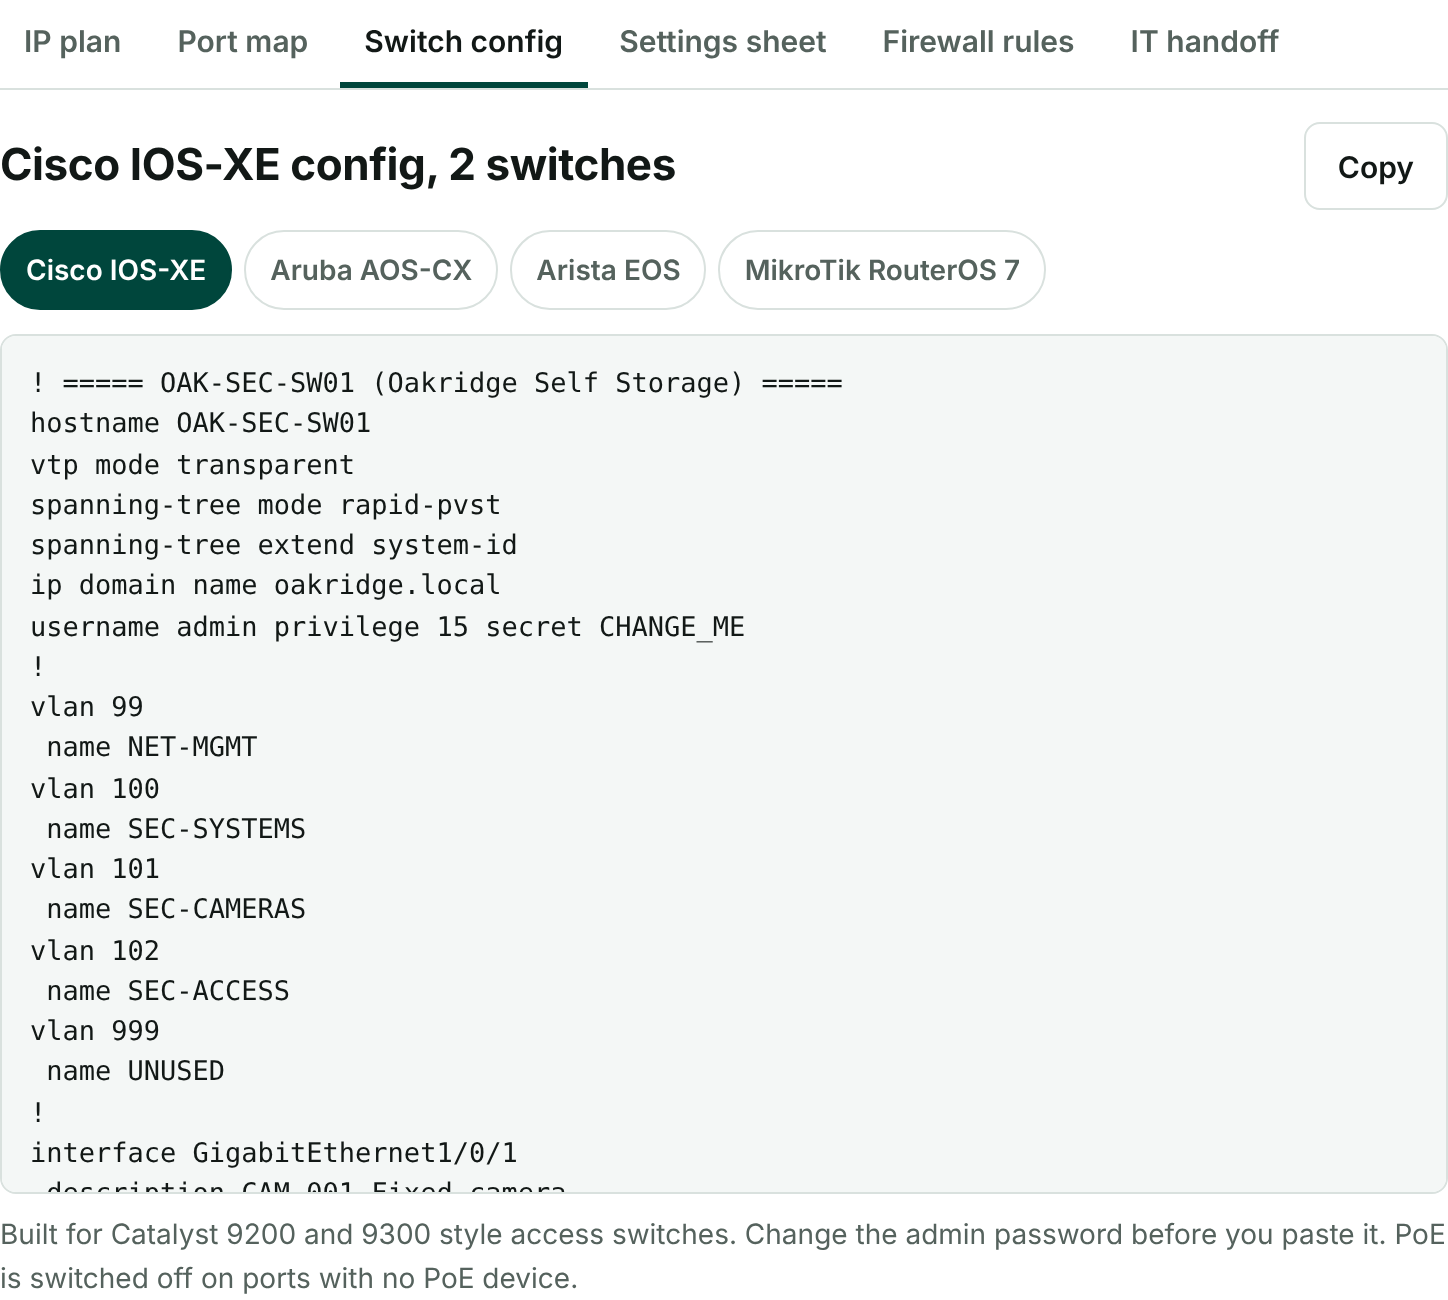
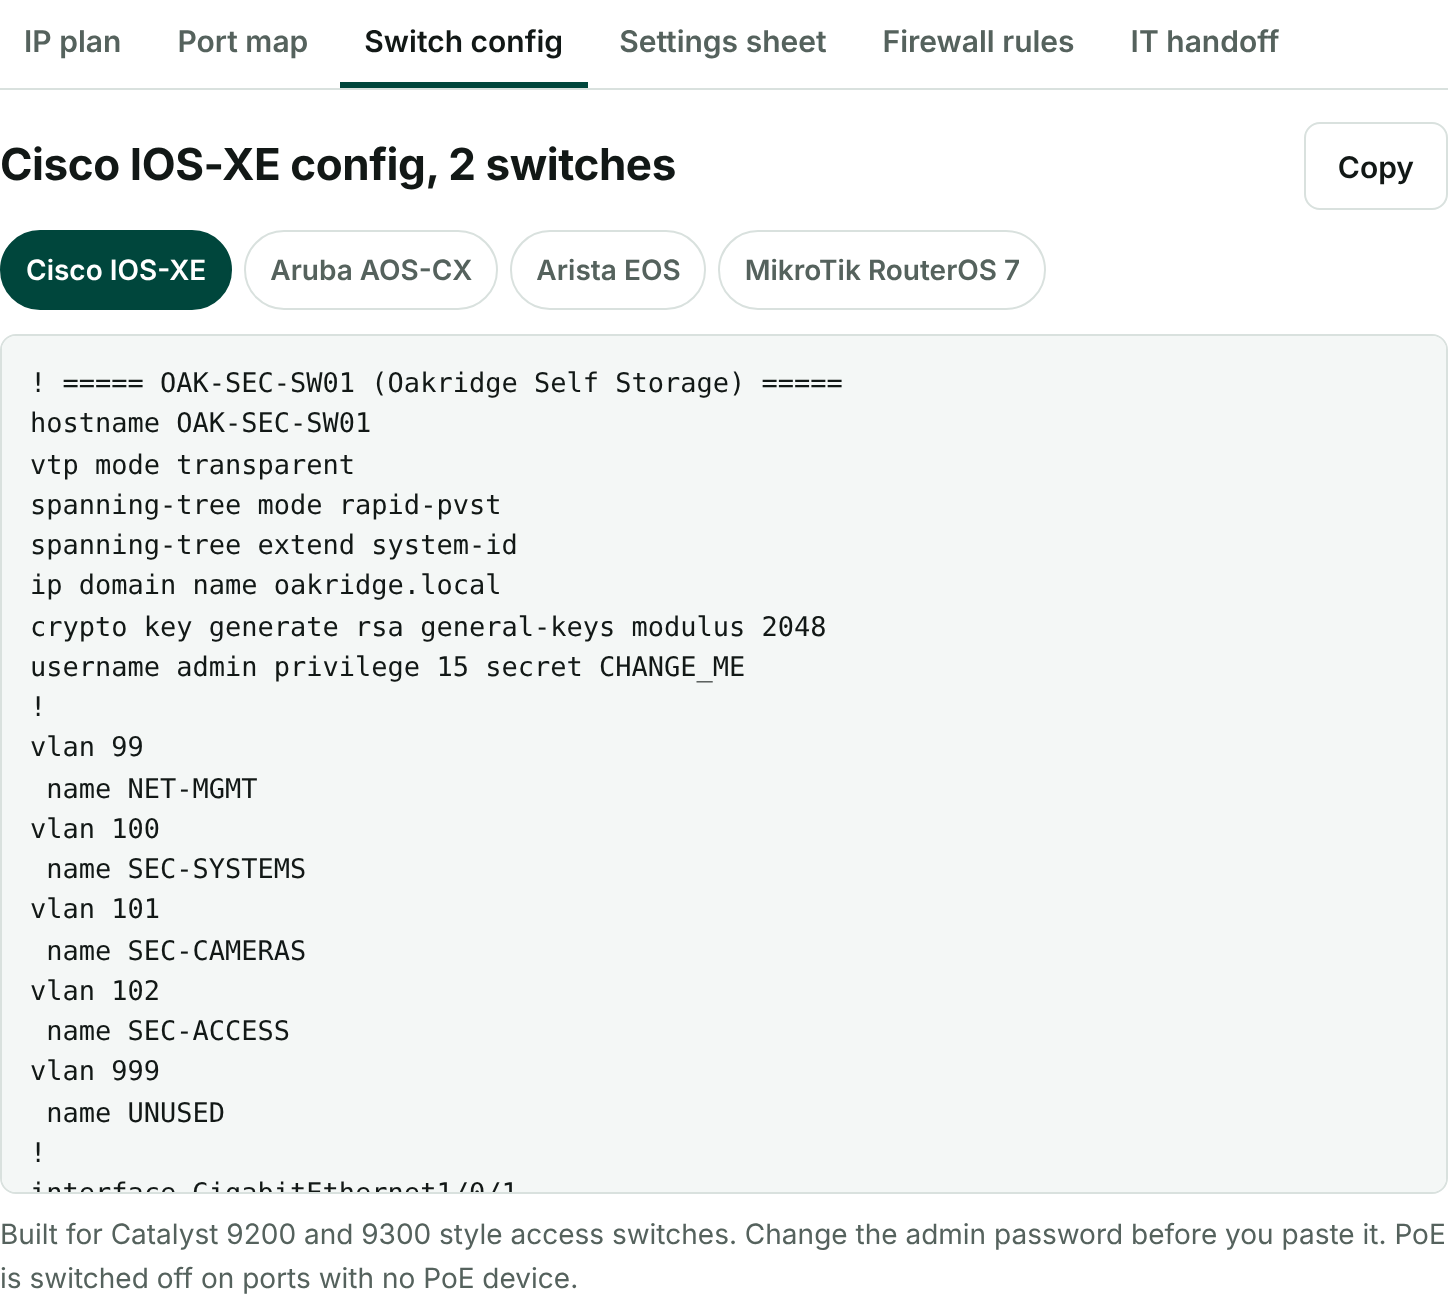
Fix config issues found in review
Cisco: generate the RSA key so SSH comes up. MikroTik: note that
the switch must start empty, shut unused ports after VLAN
filtering is on, and also disable www-ssl and api-ssl.

Claude-Session: https://claude.ai/code/session_01XUHCNFnj42HQaRWFkBUhrM

Changed region(s): [[0.0311, 0.4615, 0.5594, 0.9231]]

diff --git a/index.html b/index.html
@@ -201,7 +201,7 @@ const SAMPLE={s:{name:'Oakridge Self Storage',code:'OAK',num:12,gw:'254',ret:30,
  v:{mgmt:99,sys:100,cam:101,acs:102,park:999},
  d:[{t:'fixed',q:14,w:8,m:4},{t:'ir',q:6,w:13,m:4},{t:'ptz',q:2,w:30,m:6},{t:'door',q:4,w:15,m:.1},{t:'intercom',q:1,w:13,m:2},{t:'nvr',q:1,w:0,m:0},{t:'ws',q:1,w:0,m:0}]};
 const KEY='cnp.v1';
-const VEND={cisco:{n:'Cisco IOS-XE',up:p=>'TenGigabitEthernet1/1/1',note:'Built for Catalyst 9200 and 9300 style access switches.'},aruba:{n:'Aruba AOS-CX',up:p=>`1/1/${p.ports+1}`,note:'Built for Aruba CX 6000, 6100 and 6200 style access switches.'},arista:{n:'Arista EOS',up:p=>`Ethernet${p.ports+1}`,note:'Built for Arista 720XP style PoE access switches.'},mikrotik:{n:'MikroTik RouterOS 7',up:p=>'sfp-sfpplus1',note:'Built for CRS3xx and CRS5xx switches using bridge VLAN filtering with hardware offload. VLAN filtering is switched on last, so paste it from a console or a port you will not lose.'}};
+const VEND={cisco:{n:'Cisco IOS-XE',up:p=>'TenGigabitEthernet1/1/1',note:'Built for Catalyst 9200 and 9300 style access switches.'},aruba:{n:'Aruba AOS-CX',up:p=>`1/1/${p.ports+1}`,note:'Built for Aruba CX 6000, 6100 and 6200 style access switches.'},arista:{n:'Arista EOS',up:p=>`Ethernet${p.ports+1}`,note:'Built for Arista 720XP style PoE access switches.'},mikrotik:{n:'MikroTik RouterOS 7',up:p=>'sfp-sfpplus1',note:'Built for CRS3xx and CRS5xx switches using bridge VLAN filtering with hardware offload. Reset the switch to an empty config first, because the factory config already holds every port in its own bridge. VLAN filtering and the unused-port shutdown come last, so paste it from a console or a port you will not lose.'}};
 const clone=o=>JSON.parse(JSON.stringify(o));
 let S=clone(SAMPLE),tab='ip',R=null;
 const fix=x=>{if(!x.vn){x.vn=clone(SAMPLE.vn);if(x.w.ifp)x.vn.cisco.ifp=x.w.ifp;if(x.w.up)x.vn.cisco.up=x.w.up}if(!x.w.vend)x.w.vend='cisco';return x};
@@ -250,7 +250,7 @@ const vf=(p,k)=>({ifp:(S.vn[k]&&S.vn[k].ifp)||SAMPLE.vn[k].ifp,up:(S.vn[k]&&S.vn
 const used=p=>VL.map(y=>p.oct(y[0]));
 function cisco(p,x){
  const s=S.s,w=S.w,v=S.v,{ifp,up}=vf(p,'cisco'),L=[];
- L.push(`! ===== ${x.name} (${s.name}) =====`,`hostname ${x.name}`,'vtp mode transparent','spanning-tree mode rapid-pvst','spanning-tree extend system-id',`ip domain name ${s.dom||'example.local'}`,'username admin privilege 15 secret CHANGE_ME','!');
+ L.push(`! ===== ${x.name} (${s.name}) =====`,`hostname ${x.name}`,'vtp mode transparent','spanning-tree mode rapid-pvst','spanning-tree extend system-id',`ip domain name ${s.dom||'example.local'}`,'crypto key generate rsa general-keys modulus 2048','username admin privilege 15 secret CHANGE_ME','!');
  VL.forEach(y=>L.push(`vlan ${p.oct(y[0])}`,` name ${y[1]}`));
  L.push(`vlan ${p.oct('park')}`,' name UNUSED','!');
  const unused=[];
@@ -259,7 +259,7 @@ function cisco(p,x){
  rangeTxt(unused).forEach(([a,b])=>L.push(`interface range ${ifp}${a}${b>a?' - '+b:''}`,' description UNUSED',' switchport mode access',` switchport access vlan ${p.oct('park')}`,' shutdown','!'));
  for(let i=p.usable;i<p.ports;i++)L.push(`interface ${ifp}${i+1}`,' description RESERVED-UPLINK',' shutdown','!');
  L.push(`interface ${up}`,' description UPLINK-TO-CORE',' switchport mode trunk',` switchport trunk allowed vlan ${used(p).join(',')}`,' switchport nonegotiate',' no shutdown','!');
- L.push('interface Vlan1',' shutdown','!',`interface Vlan${p.oct('mgmt')}`,` description ${VL[0][1]}`,` ip address ${x.ip} 255.255.255.0`,' no shutdown','!',`ip default-gateway ${p.sub('mgmt')}.${p.gwh}`,`ntp server ${s.ntp||'CHANGE_ME'}`,`ip name-server ${s.ntp||'CHANGE_ME'}`,'no ip http server','no ip http secure-server','ip ssh version 2','! Generate SSH keys once: crypto key generate rsa modulus 2048','line vty 0 15',' login local',' transport input ssh','!','end');
+ L.push('interface Vlan1',' shutdown','!',`interface Vlan${p.oct('mgmt')}`,` description ${VL[0][1]}`,` ip address ${x.ip} 255.255.255.0`,' no shutdown','!',`ip default-gateway ${p.sub('mgmt')}.${p.gwh}`,`ntp server ${s.ntp||'CHANGE_ME'}`,`ip name-server ${s.ntp||'CHANGE_ME'}`,'no ip http server','no ip http secure-server','ip ssh version 2','line vty 0 15',' login local',' transport input ssh','!','end');
  return L.join('\n');
 }
 
@@ -291,7 +291,7 @@ function arista(p,x){
 }
 function mikrotik(p,x){
  const s=S.s,{ifp,up}=vf(p,'mikrotik'),L=[],unused=[],byV={},mg=p.oct('mgmt');
- L.push(`# ===== ${x.name} (${s.name}) =====`,`/system identity set name=${x.name}`,'/user set admin password=CHANGE_ME','/interface bridge add name=bridge1 protocol-mode=rstp vlan-filtering=no','/interface bridge port');
+ L.push(`# ===== ${x.name} (${s.name}) =====`,'# Start from an empty switch: /system reset-configuration no-defaults=yes',`/system identity set name=${x.name}`,'/user set admin password=CHANGE_ME','/interface bridge add name=bridge1 protocol-mode=rstp vlan-filtering=no','/interface bridge port');
  x.ports.forEach((d,i)=>{const n=i+1;if(i>=p.usable)return;if(!d){unused.push(`${ifp}${n}`);return}
   const vid=p.oct(d.v);(byV[vid]=byV[vid]||[]).push(`${ifp}${n}`);
   L.push(`add bridge=bridge1 interface=${ifp}${n} pvid=${vid} frame-types=admit-only-untagged-and-priority-tagged edge=yes bpdu-guard=yes comment="${d.id} ${d.type}"`)});
@@ -300,8 +300,8 @@ function mikrotik(p,x){
  const poe=x.ports.map((d,i)=>d&&i<p.usable?`set ${ifp}${i+1} poe-out=${d.w>0?'auto-on':'off'}`:null).filter(Boolean);
  if(poe.length)L.push('/interface ethernet poe',...poe);
  for(let i=p.usable;i<p.ports;i++)unused.push(`${ifp}${i+1}`);
+ L.push(`/interface vlan add interface=bridge1 name=vlan${mg}-mgmt vlan-id=${mg}`,`/ip address add address=${x.ip}/24 interface=vlan${mg}-mgmt`,`/ip route add dst-address=0.0.0.0/0 gateway=${p.sub('mgmt')}.${p.gwh}`,`/ip dns set servers=${s.ntp||'CHANGE_ME'}`,'/system ntp client set enabled=yes',`/system ntp client servers add address=${s.ntp||'CHANGE_ME'}`,'/ip service disable telnet,ftp,www,www-ssl,api,api-ssl','# Turn on VLAN filtering, then shut the unused ports','/interface bridge set bridge1 vlan-filtering=yes');
  if(unused.length)L.push(`/interface ethernet disable ${unused.join(',')}`);
- L.push(`/interface vlan add interface=bridge1 name=vlan${mg}-mgmt vlan-id=${mg}`,`/ip address add address=${x.ip}/24 interface=vlan${mg}-mgmt`,`/ip route add dst-address=0.0.0.0/0 gateway=${p.sub('mgmt')}.${p.gwh}`,`/ip dns set servers=${s.ntp||'CHANGE_ME'}`,'/system ntp client set enabled=yes',`/system ntp client servers add address=${s.ntp||'CHANGE_ME'}`,'/ip service disable telnet,ftp,www,api','# Turn on VLAN filtering last','/interface bridge set bridge1 vlan-filtering=yes');
  return L.join('\n');
 }
 const GEN={cisco,aruba,arista,mikrotik};

diff --git a/README.md b/README.md
@@ -103,7 +103,7 @@ The browser remembers your job. **Save or load a job** copies a job out as text 
 - **Use real numbers.** The default watts and bitrates are typical values, not measurements.
 - **Check vendor ports.** Camera, VMS and access control ports vary. Compare the firewall requests with your vendor's port list.
 - **Change every `CHANGE_ME`.**
-- **MikroTik:** VLAN filtering is switched on as the last line. Paste the config from a console or a port you won't lose.
+- **MikroTik:** start from an empty switch (`/system reset-configuration no-defaults=yes`), because the factory config already holds every port in its own bridge. VLAN filtering and the unused-port shutdown come last, so paste the config from a console or a port you won't lose.
 
 ## How it works
 
